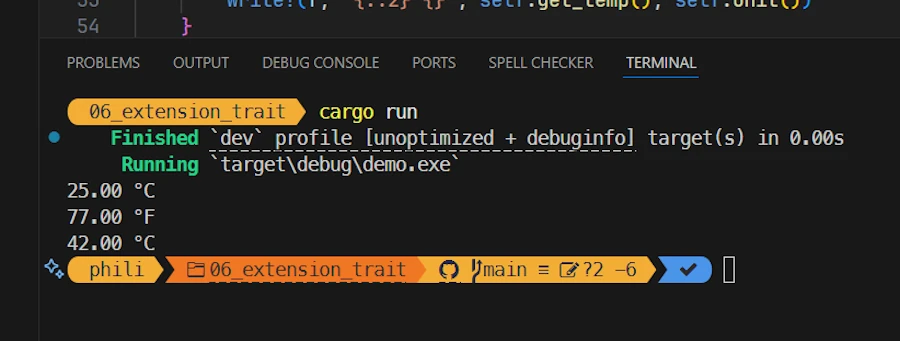
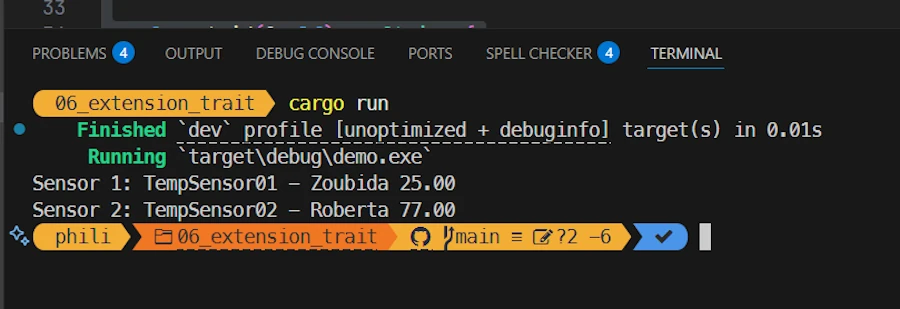
About to start associated type

diff --git a/docs/06_programmation/rust/015_traits/traits.md b/docs/06_programmation/rust/015_traits/traits.md
@@ -2003,7 +2003,7 @@ In the rest of the code the same apply for TempSensor02. Now, tadaaa!
 <!-- <span>Running code in Rust Playground</span> -->
 </div>
 
-Look how beautiful the body main() function is : 
+And look how beautiful the body `main()` function is : 
 
 ```rust
 fn main() {
@@ -2018,12 +2018,24 @@ fn main() {
     }
 }
 ```
-We define a vector of sensors. Then we go through all of the vector's values and we print them on the console using the sensor variable's name. No function call, no method invoked. Just `println!`. Smoking!
+We define a vector of sensors. Then we go through all of the vector's values and we print them on the console using the sensor variable's name. 
+
+Just to make sure... In the `main()` function, the code below works like a charm. Make a try in Rust Playground
+
+```rust
+    let sensor1 = TempSensor01 { temp: 25.0 };
+    let sensor2 = TempSensor02 { temp: 25.0 }; // 77°F
+    println!("{}", sensor1);
+    println!("{}", sensor2);
+```
+
+So... There is no function call, no method invoked. Just `println!`. Smoking!
 
 <div align="center">
 <img src="./assets/img18.webp" alt="" width="225" loading="lazy"/><br/>
 <!-- <span>Running code in Rust Playground</span> -->
 </div>
+
 
 
 Yes... Almost. I say almost because... Yes the `main()` function looks great. Yes, it is impossible to forget to implement the `Display` trait, but we still have to implement it ourselves. Wouldn't it be great if we could delegate this task to the compiler?
@@ -2084,6 +2096,186 @@ Where the compiler generates the implementation code of the traits from which we
 ### Explanations 1/2 
 {: .no_toc }
 
+In the previous sample code, using inheritance, we make sure that if a data type implement `TempSensor` it also implement `Display`. However we had to copy paste the implementation of `Display` in our data type who wanted to implement TemSensor trait. Yes, I know, a data type doesn't want anything but you get the idea.
+
+ 
+
+
+
+
+
+### Show me the code!
+{: .no_toc }
+
+```rust
+// main.rs
+// cargo run
+
+trait TempSensor {
+    fn get_temp(&self) -> f64;
+    fn get_id(&self) -> String;
+}
+
+struct TempSensor01 {
+    temp: f64,
+    id: String,
+}
+
+impl TempSensor for TempSensor01 {
+    fn get_temp(&self) -> f64 {
+        self.temp
+    }
+
+    fn get_id(&self) -> String {
+        "TempSensor01 - ".to_owned() + &self.id
+    }
+}
+
+struct TempSensor02 {
+    temp: f64,
+    id: String,
+}
+
+impl TempSensor for TempSensor02 {
+    fn get_temp(&self) -> f64 {
+        self.temp * 9.0 / 5.0 + 32.0
+    }
+
+    fn get_id(&self) -> String {
+        "TempSensor02 - ".to_owned() + &self.id
+    }
+}
+
+trait SensorDisplay: TempSensor {
+    fn pretty(&self) -> String {
+        format!("{} {:.2} ", self.get_id(), self.get_temp(),)
+    }
+}
+
+impl<T: TempSensor> SensorDisplay for T {}
+
+fn main() {
+    let sensor1 = TempSensor01 { temp: 25.0, id: "Zoubida".into() };
+    let sensor2 = TempSensor02 { temp: 25.0, id: "Roberta".into() }; // 77°F
+
+    println!("Sensor 1: {}", sensor1.pretty());
+    println!("Sensor 2: {}", sensor2.pretty());
+}
+```
+
+
+### Explanations 2/2 
+{: .no_toc }
+
+In the code above, we first create a trait `TempSensor` with 2 functions in the interface (`.get_temp()` and `.get_id()`). Then we create a data type `TempSensor01` and we implements `TempSensor` for it.
+
+So any variable of type `TempSensor01` has the `.get_temp()` and `.get_id()` methods (and we do the same thing for the data type `TempSensor02`).
+
+Now comes the interesting part.
+
+```rust
+trait SensorDisplay: TempSensor {
+    fn pretty(&self) -> String {
+        format!("{} {:.2} ", self.get_id(), self.get_temp(),)
+    }
+}
+```
+We know trait bound inheritance so we understand that, with the lines above, any type that implements `SensorDisplay` must also implement `TempSensor`.
+
+We know about default trait implementation. So we understand that `.pretty()` has a default implementation that relies on the TempSensor methods (.get_temp() and .get_id()).
+
+The code above is called extension traits. This add methods to an existing trait (`TempSensor` here) without impacting the original type definitions 
+
+
+The next line is important
+
+```rust
+impl<T: TempSensor> SensorDisplay for T {}
+```
+
+This line implement `SensorDisplay` for every type `T` that implements `TempSensor`. It will expands all `TempSensors` with the defaulted `.pretty()` method of the SensorDisplay trait. This is possible because we own the trait (`SensorDisplay`). Remember : Rust’s coherence rules let us implement method for foreign or local types as long as the trait is local.
+
+As consequence : Any data type `T` that implement `TempSensor` automatically gets `.pretty()` for free via the extension trait.
+
+This is cool because `TempSensor01` and `TempSensor02` implement `TempSensor` and so we don't have to copy/paste the code to print them. It is generated by the compiler.
+
+In the `main()` function we simply have :
+
+```rust
+    println!("Sensor 1: {}", sensor1.pretty());
+    println!("Sensor 2: {}", sensor2.pretty());
+```
+
+### Summary
+{: .no_toc }
+
+
+
+
+
+
+
+
+
+
+
+
+
+
+
+
+
+
+
+***Ok, ok, ok... Displaying thermocouple values was a good excuse to present different possibilities around traits... But how can I write the code below without duplicating Display code etc?***
+
+```rust
+fn main() {
+    let sensors: Vec<Box<dyn TempSensor>> = vec![
+        Box::new(TempSensor01 { temp: 25.0 }),
+        Box::new(TempSensor02 { temp: 25.0 }), // 77°F
+        Box::new(TempSensor01 { temp: 42.0 }),
+    ];
+
+    for sensor in sensors {
+        println!("{}", sensor);
+    }
+}
+```
+
+Know the answer, you do, young Padawan.
+
+
+
+
+<!-- ###################################################################### -->
+<!-- ###################################################################### -->
+<!-- ###################################################################### -->
+<!-- ###################################################################### -->
+<!-- ###################################################################### -->
+
+
+## Traits and dynamic dispatch
+
+One sentence
+
+### Running the demo code
+{: .no_toc }
+
+* right click on `assets/06_traits_and_dyn_dispatch`
+* Select the option "Open in Integrated Terminal"
+* `cargo run`
+
+<div align="center">
+<img src="./assets/img19.webp" alt="" width="450" loading="lazy"/><br/>
+<!-- <span>Running code in Rust Playground</span> -->
+</div>
+
+
+
+### Explanations 1/2 
+{: .no_toc }
+
 
 
 
@@ -2126,14 +2318,6 @@ impl TempSensor for TempSensor02 {
     }
 }
 
-trait SensorDisplay: TempSensor {
-    fn format(&self) -> String {
-        format!("{:.2} {}", self.get_temp(), self.unit())
-    }
-}
-
-impl<T: TempSensor> SensorDisplay for T {}
-
 impl Display for Box<dyn TempSensor> {
     fn fmt(&self, f: &mut Formatter<'_>) -> FmtResult {
         write!(f, "{:.2} {}", self.get_temp(), self.unit())
@@ -2157,22 +2341,38 @@ fn main() {
 ### Explanations 2/2 
 {: .no_toc }
 
-SensorDisplay (the actual extension trait)
+As in the previous sample code we first create a trait `TempSensor` with 2 functions in the interface (`.get_temp()` and `.unit()`). Then we create a data type `TempSensor01` and we implements `TempSensor` for it.
+
+So any variable of type `TempSensor01` has the `.get_temp()` and `.unit()` methods (and we do the same thing for the data type `TempSensor02`).
+
+The key to the answer is in data types available in the `main()` function. What is the type of `sensor` in the `for` loop? Correct. This is a `Box<dyn TempSensor>` (it was easy to answer because above you can see that sensors is a `Vec<Box<dyn TempSensor>>`, a vector of `Box<dyn TempSensor>`).
+
+So, if you want to write `println!("{}", sensor);` what do you need? I `Display` for `sensor`. In other word I need to implement the trait Display for the data type of `sensor`, for the `Box<dyn TempSensor>` data type.
+
+Bingo! You got it. And this explain the code below
+
 ```rust
-trait SensorDisplay: TempSensor {
-    fn format(&self) -> String {
-        format!(“{:.2} {}”, self.get_temp(), self.unit())
+impl Display for Box<dyn TempSensor> {
+    fn fmt(&self, f: &mut Formatter<'_>) -> FmtResult {
+        write!(f, "{:.2} {}", self.get_temp(), self.unit())
     }
 }
-
-// Automatic implementation for all types that implement TempSensor
-impl<T: TempSensor> SensorDisplay for T {}
 ```
 
-SensorDisplay is a local extension trait. We implement it for any type `T` that implements `TempSensor`. This is valid because the trait is local (defined in our crate).
 
 ### Summary
 {: .no_toc }
+
+
+***In place of the `.get_id()` method, I see `.unit()`. What is the point?***
+
+
+
+
+
+
+
+
 
 
 
